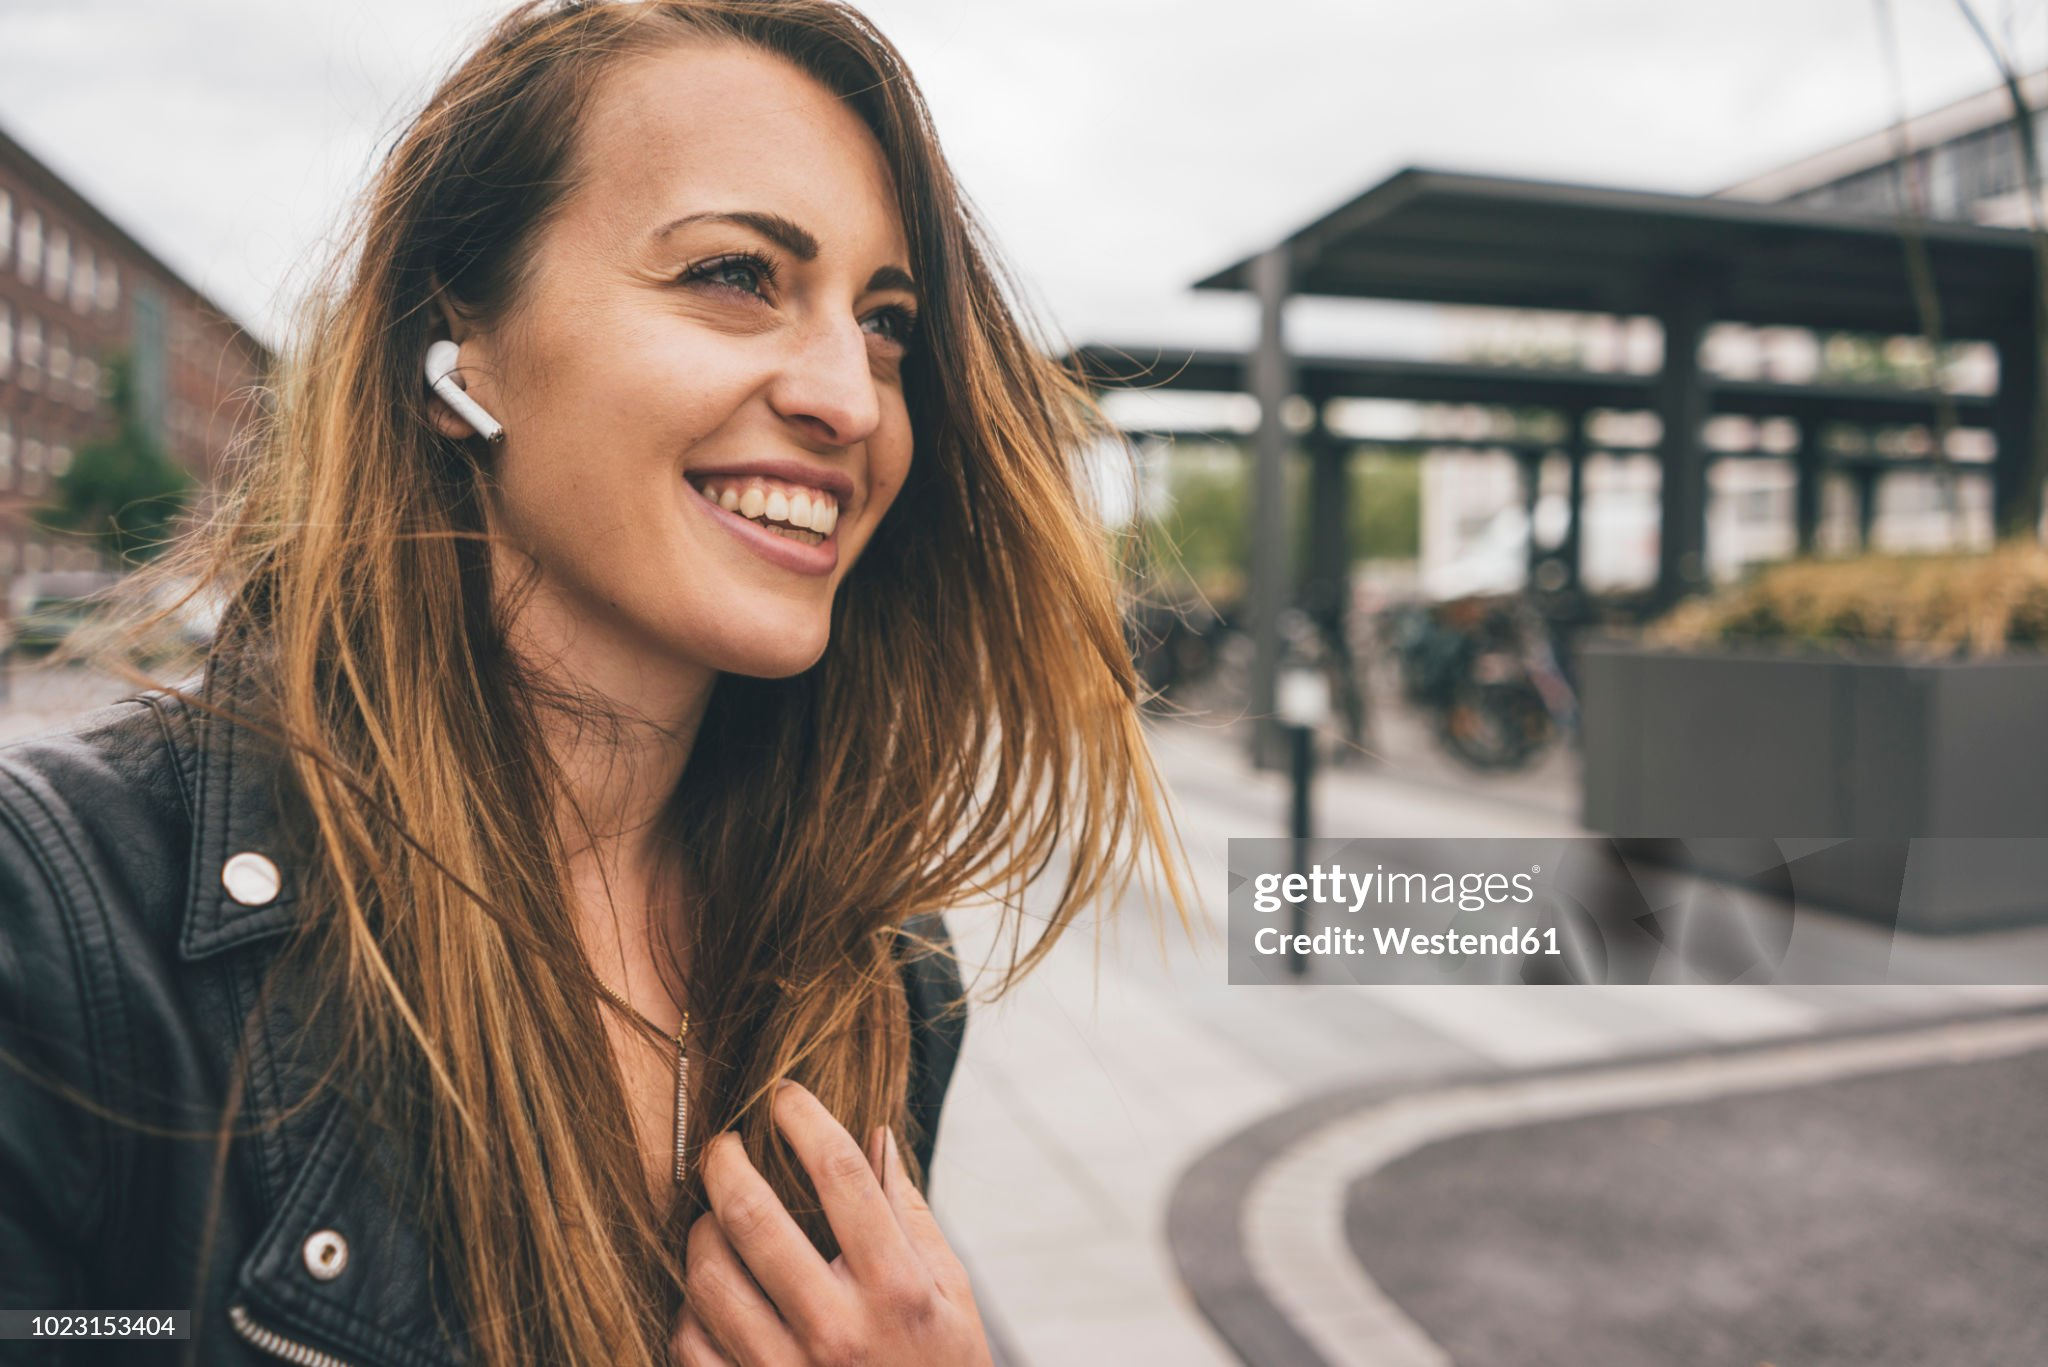
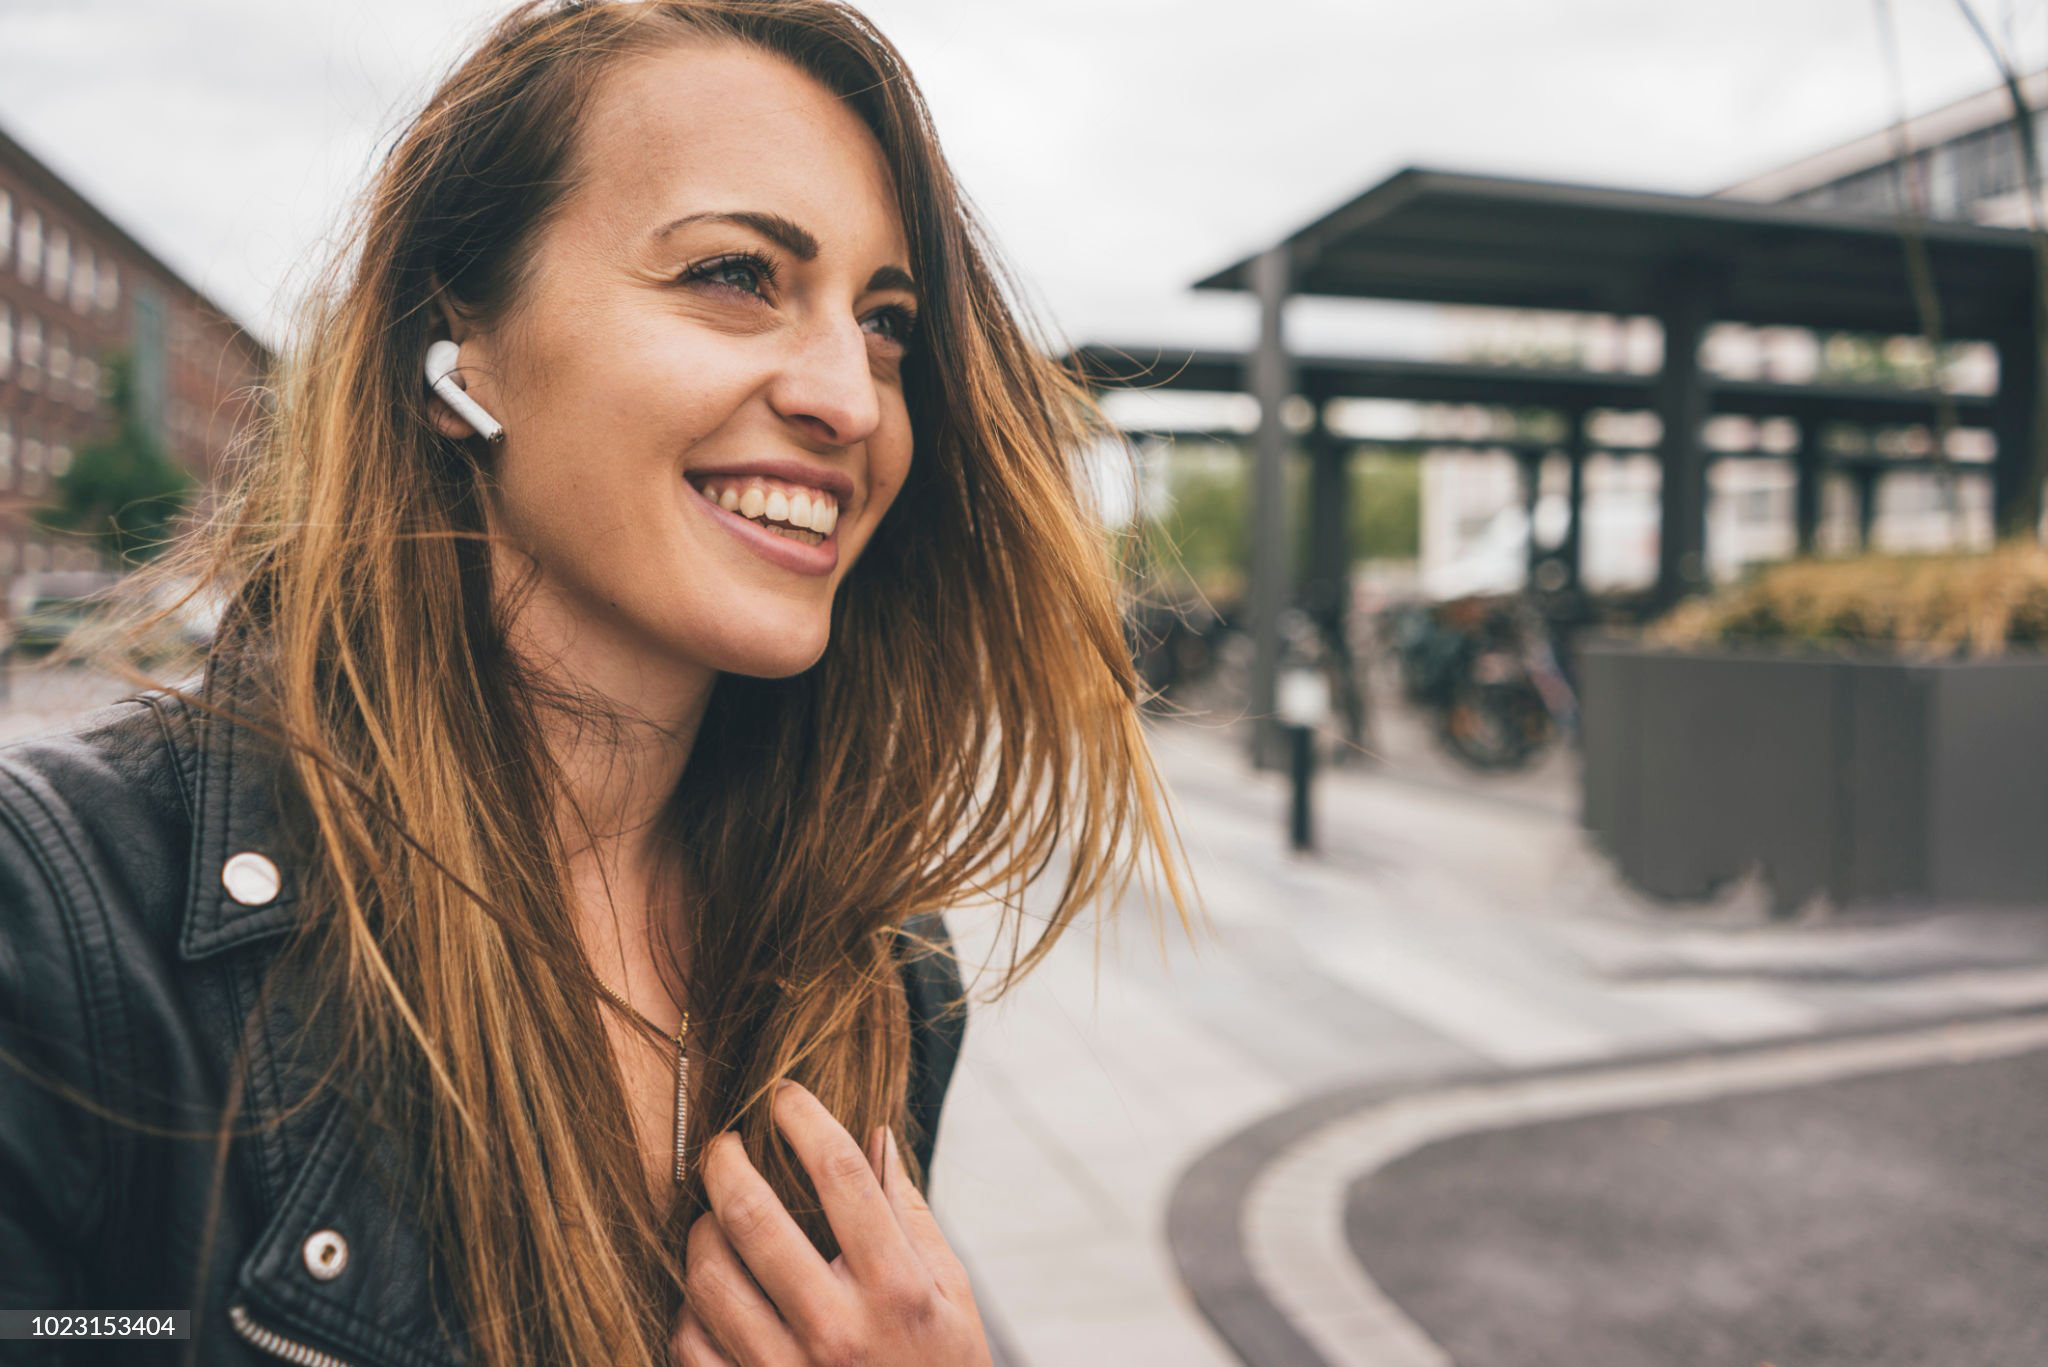
completed Hero Second Section

Changed region(s): [[0.5938, 0.6145, 1.0, 0.7374]]

diff --git a/app/components/Hero.tsx b/app/components/Hero.tsx
@@ -3,6 +3,33 @@ import Link from "next/link";
 import { MainCarousel, SecondCarousel } from "./Carousel";
 import ProductCard from "./ProductCard";
 
+const productCardItems = [
+  {
+    title: "Bose QuietComfort Earbuds",
+    img: "/images/SF_QCEB25_WHITE_PDP_ECOMM-GALLERY_IMG-1.webp",
+    price: "$179.00",
+    color: ["#000000", "#c5c6e1", "#ffffff"],
+  },
+  {
+    title: "Bose QuietComfort Ultra Headphones",
+    img: "/images/QCUH_LunarBlue_Wired_400x300_x.webp",
+    price: "$429.00",
+    color: ["#000000", "#eee8e5", "#203449", "#d3d3d2", "#928982"],
+  },
+  {
+    title: "Bose QuietComfort Headphones",
+    img: "/images/QCHLE25_ChilledLilac_001_RightFacing_RGB.webp",
+    price: "$349.00",
+    color: ["#000000", "#eee8e5", "#486e8a", "#928982", "#c5c6e1", "#a2c2d9"],
+  },
+  {
+    title: "Bose Ultra Open Earbuds",
+    img: "/images/SF_PDP_GALLERY_AIRFLYPRO_BLACK_QCEU_BLACK-1.webp",
+    price: "$353.99",
+    color: [],
+  },
+];
+
 const SF = localFont({ src: "../fonts/SF.otf" });
 2;
 const bose = localFont({
@@ -41,15 +68,20 @@ const Hero = () => {
       <section>
         <div>
           <h1
-            className={`${bose.className} text-6xl font-extrabold mt-24 ml-20  subpixel-antialiased`}
+            className={`${bose.className} text-6xl font-extrabold mt-24 mx-24 subpixel-antialiased`}
           >
             Trending products
           </h1>
-          <div className=" ml-20 mt-5 flex gap-1">
-            <ProductCard />
-            <ProductCard />
-            <ProductCard />
-            <ProductCard />
+          <div className="mx-20 mt-5 flex gap-1 items-center flex-wrap justify-center">
+            {productCardItems.map((item, index) => (
+              <ProductCard
+                key={index}
+                title={item.title}
+                img={item.img}
+                price={item.price}
+                color={item.color}
+              />
+            ))}
           </div>
         </div>
       </section>

diff --git a/app/components/ProductCard.tsx b/app/components/ProductCard.tsx
@@ -1,9 +1,33 @@
+import Image from "next/image";
 import React from "react";
 
-const ProductCard = () => {
+interface Props {
+  title: string;
+  img: string;
+  price: string;
+  color: string[];
+}
+
+const ProductCard = (props: Props) => {
   return (
-    <div className="h-[495px] w-[330px] bg-gray-100 subpixel-antialiased">
-      ProductCard
+    <div className="h-[530px] w-[330px] bg-gray-100 subpixel-antialiased hover:bg-white hover:shadow-lg cursor-pointer flex-col">
+      <Image
+        className="pt-20"
+        alt={props.title}
+        height={300}
+        width={400}
+        src={props.img}
+      />
+      <p className="px-6 pt-5 font-bold text-lg leading-6">{props.title}</p>
+      <p className="px-6 pt-5 font-bold text-[16px] leading-6">{props.price}</p>
+      <div className="px-6 pt-5 flex gap-3 mt-5">
+        {props.color.map((item, index) => (
+          <div
+            key={index}
+            className={`bg-[${item}] h-7 w-7 rounded-full border border-gray-400`}
+          ></div>
+        ))}
+      </div>
     </div>
   );
 };

diff --git a/app/components/Carousel.tsx b/app/components/Carousel.tsx
@@ -26,8 +26,8 @@ const items = [
 
 // Define an array with different src and alt for Main carousel Images
 const mainItems = [
-  { src: "/images/image2.webp", alt: "image2" },
-  { src: "/images/image3.jpg", alt: "image3" },
+  { src: "/images/HP_Hero_Intro_QCUEB_1440x810_x2.webp", alt: "image2" },
+  { src: "/images/gettyimages-1023153404-2048x2048__2.jpg", alt: "image3" },
   { src: "/images/image4.webp", alt: "image4" },
 ];
 

diff --git a/components/ui/carousel.tsx b/components/ui/carousel.tsx
@@ -234,7 +234,7 @@ const CarouselNext = React.forwardRef<
       variant={variant}
       size={size}
       className={cn(
-        "absolute h-8 w-8 rounded-full border-black border",
+        "absolute h-8 w-8 rounded-full border-gray-500 border",
         orientation === "horizontal"
           ? "-right-12 top-1/2 -translate-y-1/2"
           : "-bottom-12 left-1/2 -translate-x-1/2 rotate-90",
